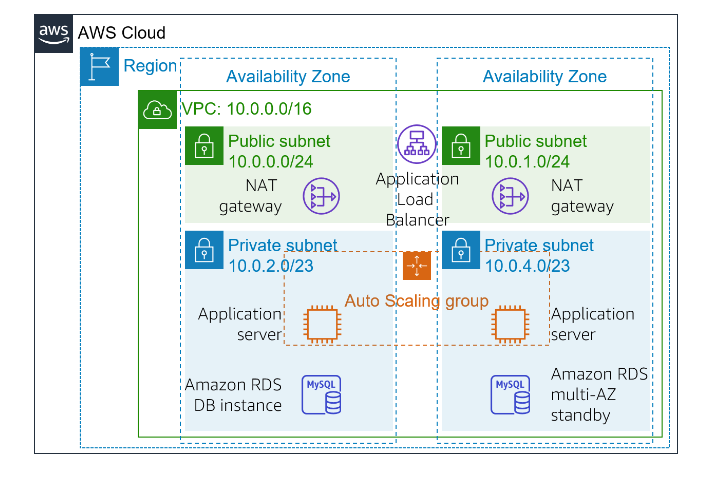
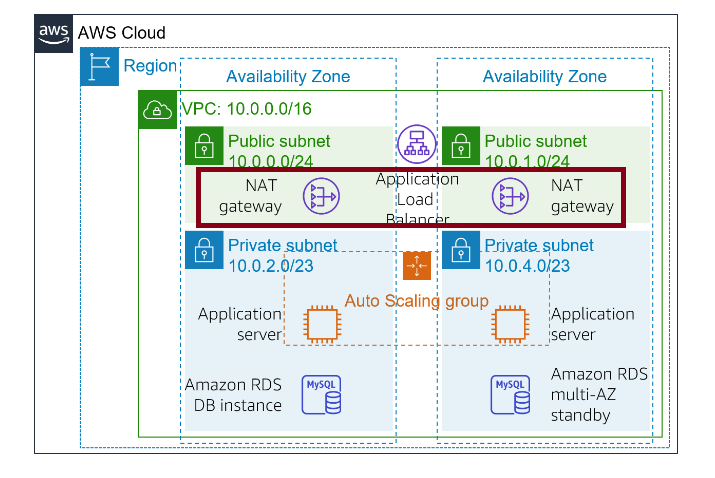
Add: Configure a highly available NAT gateway

Changed region(s): [[0.2769, 0.3515, 0.8923, 0.4979]]

diff --git a/Journey/005/Readme.md b/Journey/005/Readme.md
@@ -1,52 +1,69 @@
-**Add a cover photo like:**
-![placeholder image](https://via.placeholder.com/1200x600)
+<img src="./Screenshots/NAT-HA-arch.png" alt="Highly Available NAT Gateway" width="500"/>
 
-# New post title here
+# Configuring a highly available NAT Gateway 
 
 ## Introduction
 
-✍ (Why) Explain in one or two sentences why you choose to do this project or cloud topic for your day's study.
+* The application servers run in a private subnet. If the servers must access the internet (for example, to download data), the requests must be redirected through a Network Address Translation (NAT) gateway. (The NAT gateway must be located in a public subnet).
+
+* In this task, I will make the NAT gateway highly available by launching another NAT gateway in the other Availability Zone. The resulting architecture will be highly available:
 
 ## Prerequisite
 
-✍ (What) Explain in one or two sentences the base knowledge a reader would need before describing the the details of the cloud service or topic.
+* [Day 3](../003/Readme.md) Environment setup
+* [Day 4](../004/Readme.md) Making the database highly available
 
 ## Use Case
 
-- 🖼 (Show-Me) Create an graphic or diagram that illustrate the use-case of how this knowledge could be applied to real-world project
-- ✍ (Show-Me) Explain in one or two sentences the use case
+* The current architecture (as shown below) has only one NAT gateway in Public Subnet 1. Thus, if Availability Zone 1 fails, the application servers will not be able to communicate with the internet.This solution demonstrates how to configure a highly available NAT gateway.
 
-## Cloud Research
-
-- ✍ Document your trial and errors. Share what you tried to learn and understand about the cloud topic or while completing micro-project.
-- 🖼 Show as many screenshot as possible so others can experience in your cloud research.
+<img src="./Screenshots/Initial-Arch.png" alt="Current Architecture" width="500"/>
 
 ## Try yourself
 
-✍ Add a mini tutorial to encourage the reader to get started learning something new about the cloud.
+✍ Mini-Tutorial
 
-### Step 1 — Summary of Step
+### Step 1 — Add another NAT gateway
 
-![Screenshot](https://via.placeholder.com/500x300)
+* On the Services menu, choose **VPC**.
+* In the left navigation pane, choose **NAT gateways**.
+* Choose **Create NAT gateway** and configure these settings.
+    * Subnet: **Public Subnet 2**
+    * Choose Allocate Elastic IP
+    * Choose Create NAT gateway
 
-### Step 1 — Summary of Step
+<img src="./Screenshots/NAT-HA-1.png" alt="Create NAT gateway" width="500"/>
+<img src="./Screenshots/NAT-HA-2.png" alt="NAT gateway created" width="500"/>
 
-![Screenshot](https://via.placeholder.com/500x300)
+* Next, you need to create *a new route table for Private Subnet 2*. This route table will redirect traffic to the new NAT gateway.
+    - Choose **Route table** to create route table.
 
-### Step 3 — Summary of Step
+<img src="./Screenshots/NAT-HA-3.png" alt="Create Route Table for Private Subnet 2" width="500"/>
 
-![Screenshot](https://via.placeholder.com/500x300)
+* Look at the current settings for the route table, you notice that one route directs all traffic locally. You will now add a route to send internet-bound traffic through the new NAT gateway.
+
+<img src="./Screenshots/NAT-HA-4.png" alt="Route table created" width="500"/>
+
+* Choose **Edit routes** then configure these settings: 
+    * **Destination**: `0.0.0.0/0`
+    * **Target**: The newly created NAT Gateway
+    * Click on **Save Changes**
+
+<img src="./Screenshots/NAT-HA-5.png" alt="Modified Route table to include 2nd NAT gateway" width="500"/>
+
+* Chhose **subnet associations** tab to Edit subnet association. Select  **Private Subnet 2** then save.
+
+<img src="./Screenshots/NAT-HA-6.png" alt="Edit subnet associations" width="500"/>
+
+Now you have a second NAT gateway with its own public IP address that can be used by resources in the private subnet in the same Availability Zone within the VPC.
+
+Now you have a second NAT gateway with its own public IP address that can be used by resources in the private subnet in the same Availability Zone within the VPC  
 
 ## ☁ Cloud Outcome
 
-✍ (Result) Describe your personal outcome, and lessons learned.
-
-## Next Steps
-
-✍ Describe what you think you think you want to do next.
+* A deeper understanding of enhancing fault tolerance and resilience on AWS. 
+* I gained practical experience in configuring NAT gateways, equipping me with valuable skills for building resilient cloud infrastructures.
 
 ## Social Proof
 
-✍ Show that you shared your process on Twitter or LinkedIn
-
-[link](link)
+[LinkedIn Post](https://www.linkedin.com/posts/jecinta-atieno_100daysofcloud-aws-awscloud-activity-7173782641609953280-IhsT?utm_source=share&utm_medium=member_desktop)
